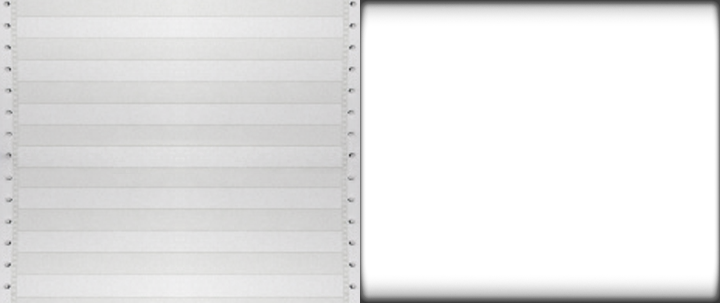
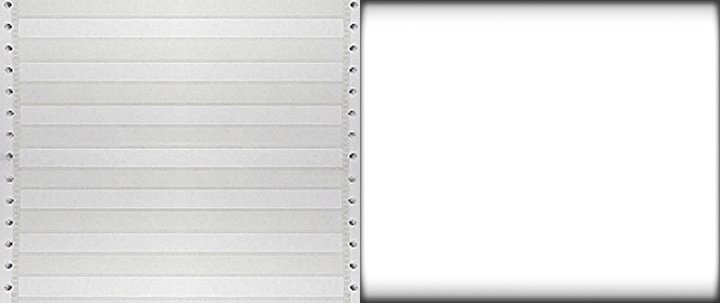
update textures update ui

diff --git a/DoodleChum/src/Printout.cpp b/DoodleChum/src/Printout.cpp
@@ -27,6 +27,8 @@ source distribution.
 
 #include <Printout.hpp>
 
+#include <xygine/Resource.hpp>
+
 #include <SFML/Graphics/RenderStates.hpp>
 #include <SFML/Graphics/RenderTarget.hpp>
 #include <SFML/Graphics/RenderWindow.hpp>
@@ -38,12 +40,15 @@ namespace
     const std::size_t charLimit = 26;
 }
 
-Printout::Printout(sf::Font& font, const sf::Texture& texture)
+Printout::Printout(sf::Font& font, xy::TextureResource& tr)
     : m_stringIdx   (0),
-    m_texture       (texture),
+    m_texture       (nullptr),
     m_scrollDistance(0.f)
 {
-    sf::Vector2f textureSize = static_cast<sf::Vector2f>(texture.getSize());
+    m_texture = &tr.get("assets/images/ui/printer.png");
+    m_texture->setRepeated(true);
+
+    sf::Vector2f textureSize = static_cast<sf::Vector2f>(m_texture->getSize());
     m_vertices[1].position.x = textureSize.x / 2.f;
     m_vertices[1].texCoords.x = textureSize.x / 2.f;
     m_vertices[2].position = { textureSize.x / 2.f, textureSize.y };
@@ -64,8 +69,11 @@ Printout::Printout(sf::Font& font, const sf::Texture& texture)
     m_text.setPosition(defaultTextPos);
     m_text.setCharacterSize(24u);
 
-    m_textTexture.create(texture.getSize().x / 2, texture.getSize().y);
+    m_textTexture.create(m_texture->getSize().x / 2, m_texture->getSize().y);
     m_textSprite.setTexture(m_textTexture.getTexture());
+
+    m_borderSprite.setTexture(tr.get("assets/images/ui/pen_border.png"));
+    m_borderSprite.setPosition(-8.f, -8.f);
 }
 
 //public
@@ -183,11 +191,12 @@ void Printout::draw(sf::RenderTarget& rt, sf::RenderStates states) const
     m_textTexture.display();
     
     states.transform *= getTransform();
-    states.texture = &m_texture;
+    states.texture = m_texture;
 
     rt.draw(m_vertices.data(), m_vertices.size(), sf::Quads, states);
 
     states.texture = nullptr;
 
     rt.draw(m_textSprite, states);
+    rt.draw(m_borderSprite, states);
 }

diff --git a/DoodleChum/src/HouseholdTab.cpp b/DoodleChum/src/HouseholdTab.cpp
@@ -52,6 +52,8 @@ HouseholdTab::HouseholdTab(xy::MessageBus& mb, xy::FontResource& fr, xy::Texture
     m_entity            (nullptr),
     m_currentActivity   (tr.get("assets/images/ui/current_task.png"))
 {
+    //tr.get("assets/images/ui/current_task.png").setSmooth(true);
+
     auto& font = fr.get("assets/fonts/FallahnHand.ttf");
 
     m_titleText.setCharacterSize(32u);
@@ -66,12 +68,15 @@ HouseholdTab::HouseholdTab(xy::MessageBus& mb, xy::FontResource& fr, xy::Texture
     m_balanceText = m_titleText;
     m_balanceText.setString(balanceString + std::to_string(am.getIncome()));
     m_balanceText.setRotation(-2.f);
-    m_balanceText.setPosition(400.f, 700.f);
+    m_balanceText.setPosition(400.f, 960.f);
     m_balanceText.setCharacterSize(52u);
     m_balanceText.setOrigin(0.f, 0.f);
 
-    m_currentActivity.setPosition(350.f, 780.f);
-    m_currentActivity.setScale(-2.f, 2.f);
+    m_currentActivity.setPosition(290.f, 720.f);
+    m_currentActivity.setScale(-1.f, 1.f);
+    m_activityBorder.setTexture(tr.get("assets/images/ui/pen_border_small.png"));
+    m_activityBorder.setPosition(m_currentActivity.getPosition());
+    m_activityBorder.setScale(-1.f, 1.f);
 
     auto& barTexture = tr.get("assets/images/ui/value_bar.png");
     auto& buttonTexture = tr.get("assets/images/ui/add_button.png");
@@ -233,6 +238,7 @@ void HouseholdTab::draw(sf::RenderTarget& rt, sf::RenderStates states) const
     rt.draw(m_titleText, states);
     rt.draw(m_balanceText, states);
     rt.draw(m_currentActivity, states);
+    rt.draw(m_activityBorder, states);
 
     for (const auto& b : m_bars)
     {

diff --git a/DoodleChum/include/Printout.hpp b/DoodleChum/include/Printout.hpp
@@ -40,15 +40,15 @@ source distribution.
 #include <functional>
 #include <list>
 
-namespace sf
+namespace xy
 {
-    class RenderWindow;
+    class TextureResource;
 }
 
 class Printout final : public sf::Drawable, public sf::Transformable
 {
 public:
-    Printout(sf::Font&, const sf::Texture&);
+    Printout(sf::Font&, xy::TextureResource&);
     ~Printout() = default;
     Printout(const Printout&) = delete;
     Printout& operator = (const Printout&) = delete;
@@ -64,7 +64,7 @@ public:
     std::list<std::string> m_strings;
     std::size_t m_stringIdx; //char index in to current string
 
-    const sf::Texture& m_texture;
+    sf::Texture* m_texture;
     sf::Text m_text;
 
     float m_scrollDistance;
@@ -72,6 +72,8 @@ public:
 
     mutable sf::RenderTexture m_textTexture;
     sf::Sprite m_textSprite;
+
+    sf::Sprite m_borderSprite;
 
     std::array<sf::Vertex, 8u> m_vertices;
     void draw(sf::RenderTarget&, sf::RenderStates) const override;

diff --git a/DoodleChum/src/PersonalTab.cpp b/DoodleChum/src/PersonalTab.cpp
@@ -75,10 +75,8 @@ PersonalTab::PersonalTab(xy::MessageBus& mb, xy::FontResource& fr, xy::TextureRe
         position.y += verticalSpacing;
     }
 
-    auto& printTex = tr.get("assets/images/ui/printer.png");
-    printTex.setRepeated(true);
     auto& printFont = fr.get("assets/fonts/Printer.ttf");
-    m_printout = std::make_unique<Printout>(printFont, printTex);
+    m_printout = std::make_unique<Printout>(printFont, tr);
     m_printout->setPosition(40.f, 720.f);
 
     //message handler for low resources

diff --git a/DoodleChum/include/HouseholdTab.hpp b/DoodleChum/include/HouseholdTab.hpp
@@ -68,6 +68,7 @@ private:
     std::vector<std::pair<sf::Sprite, PriceTag>> m_buttons;
 
     CurrentActivity m_currentActivity;
+    sf::Sprite m_activityBorder;
 
     void draw(sf::RenderTarget&, sf::RenderStates) const override;
 };
